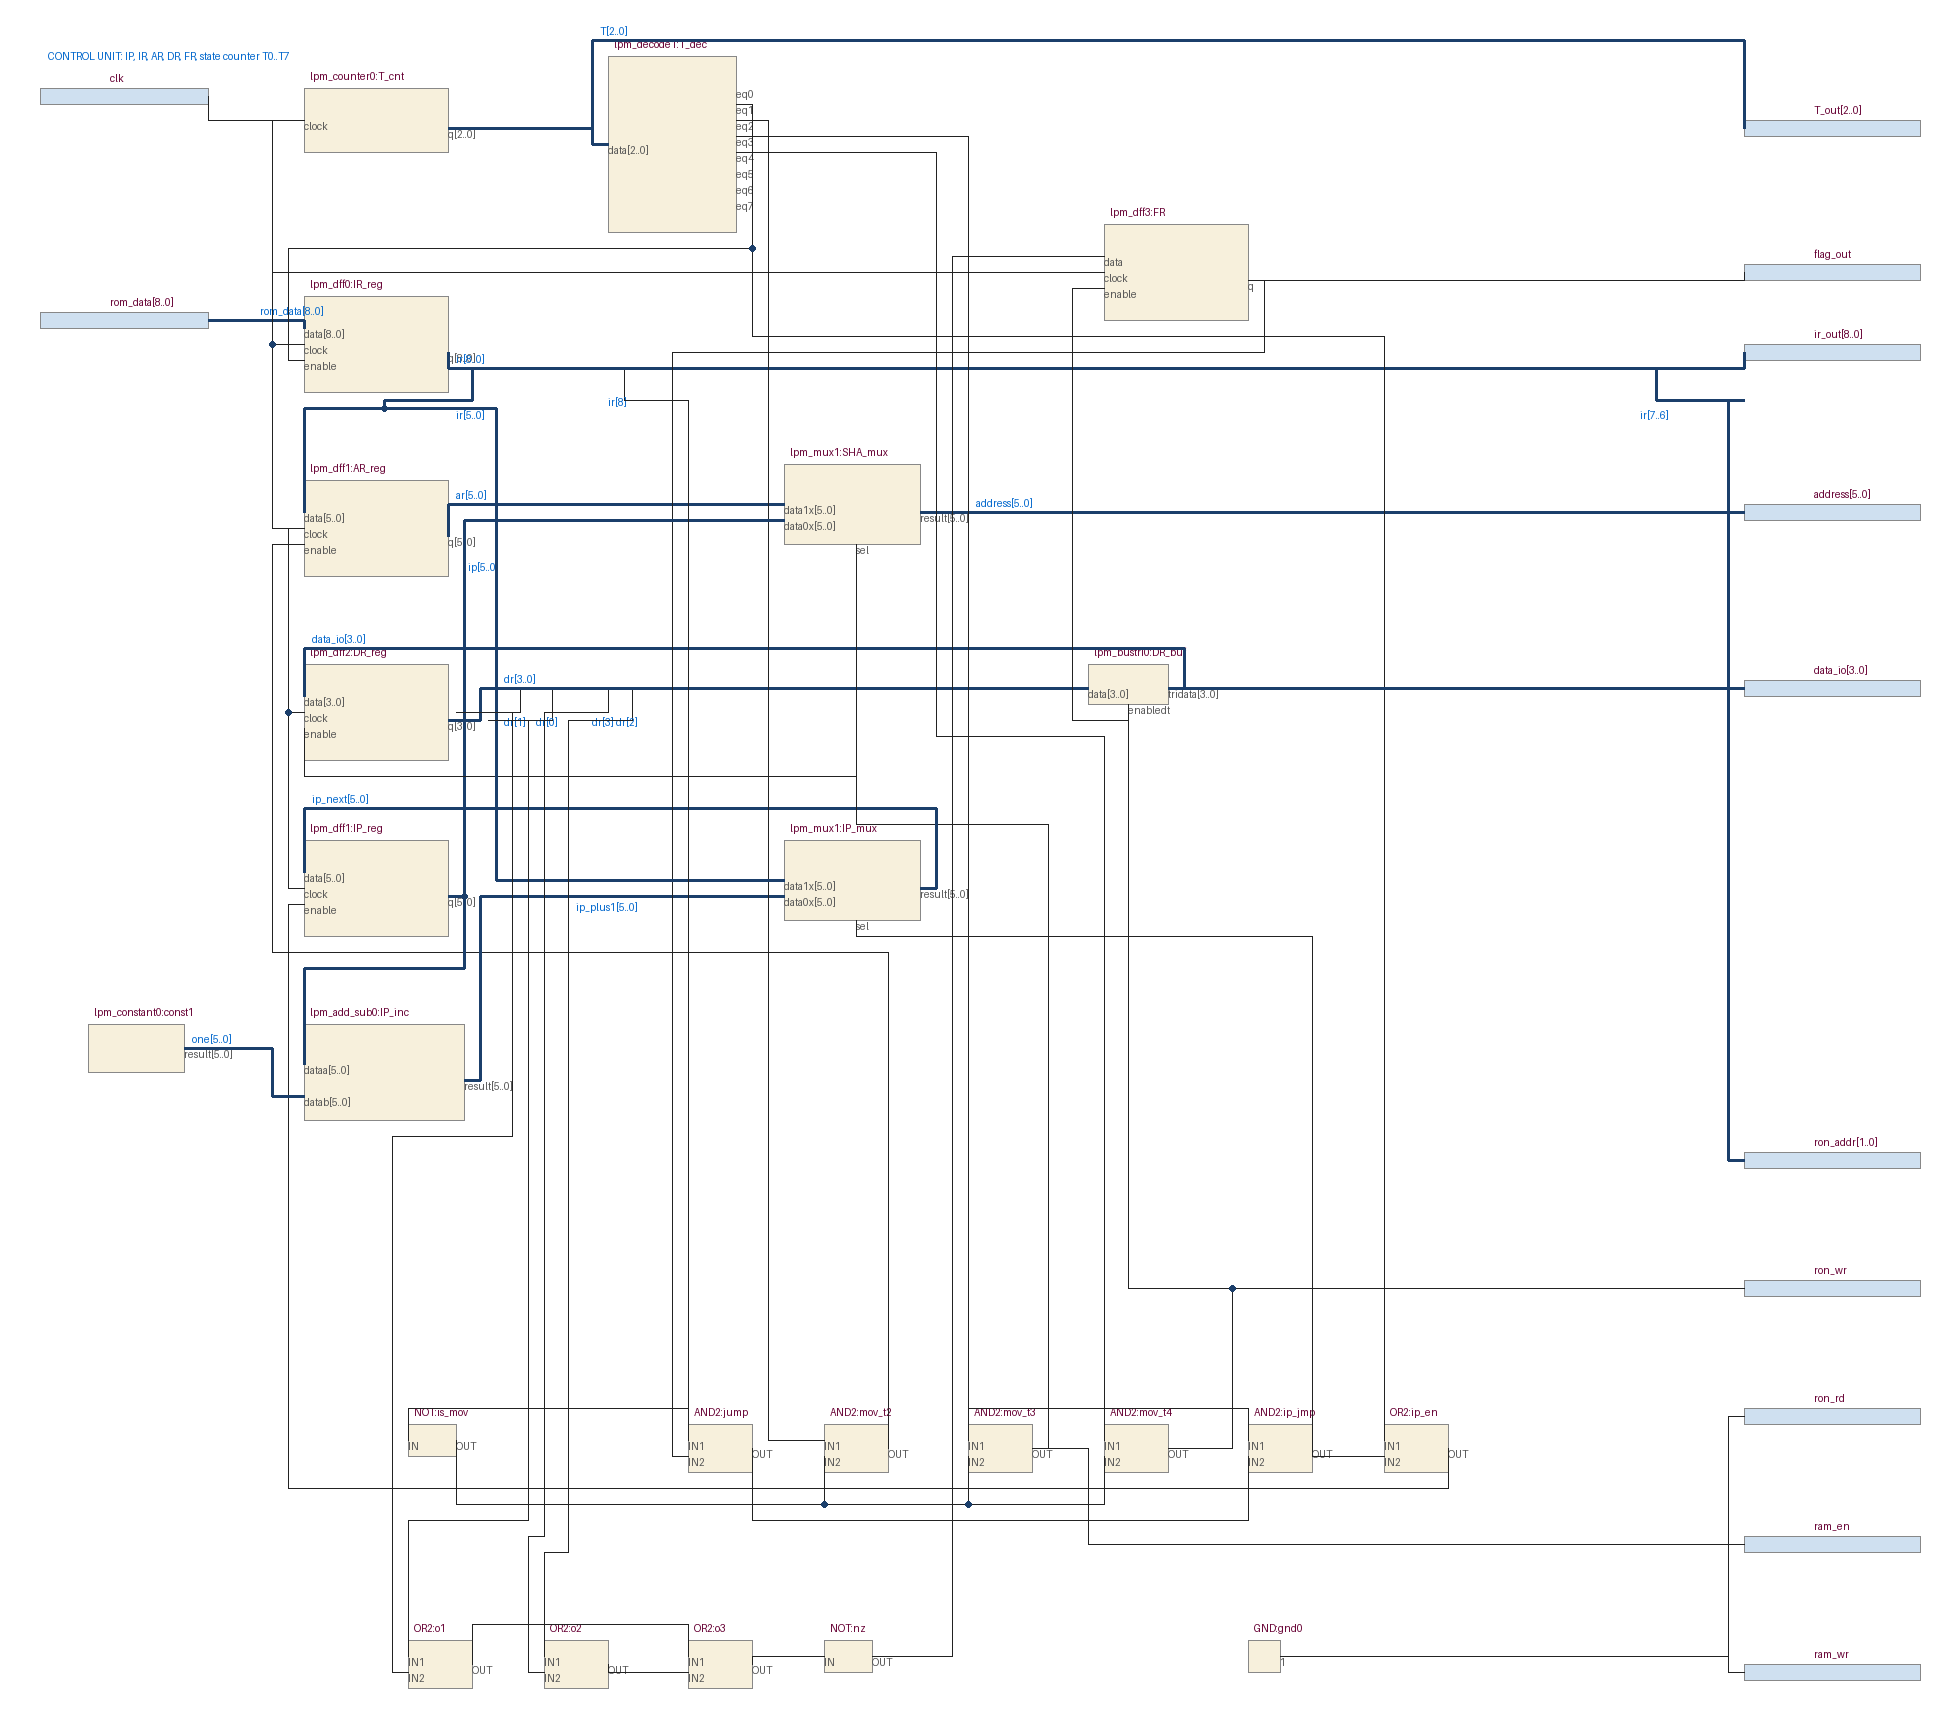
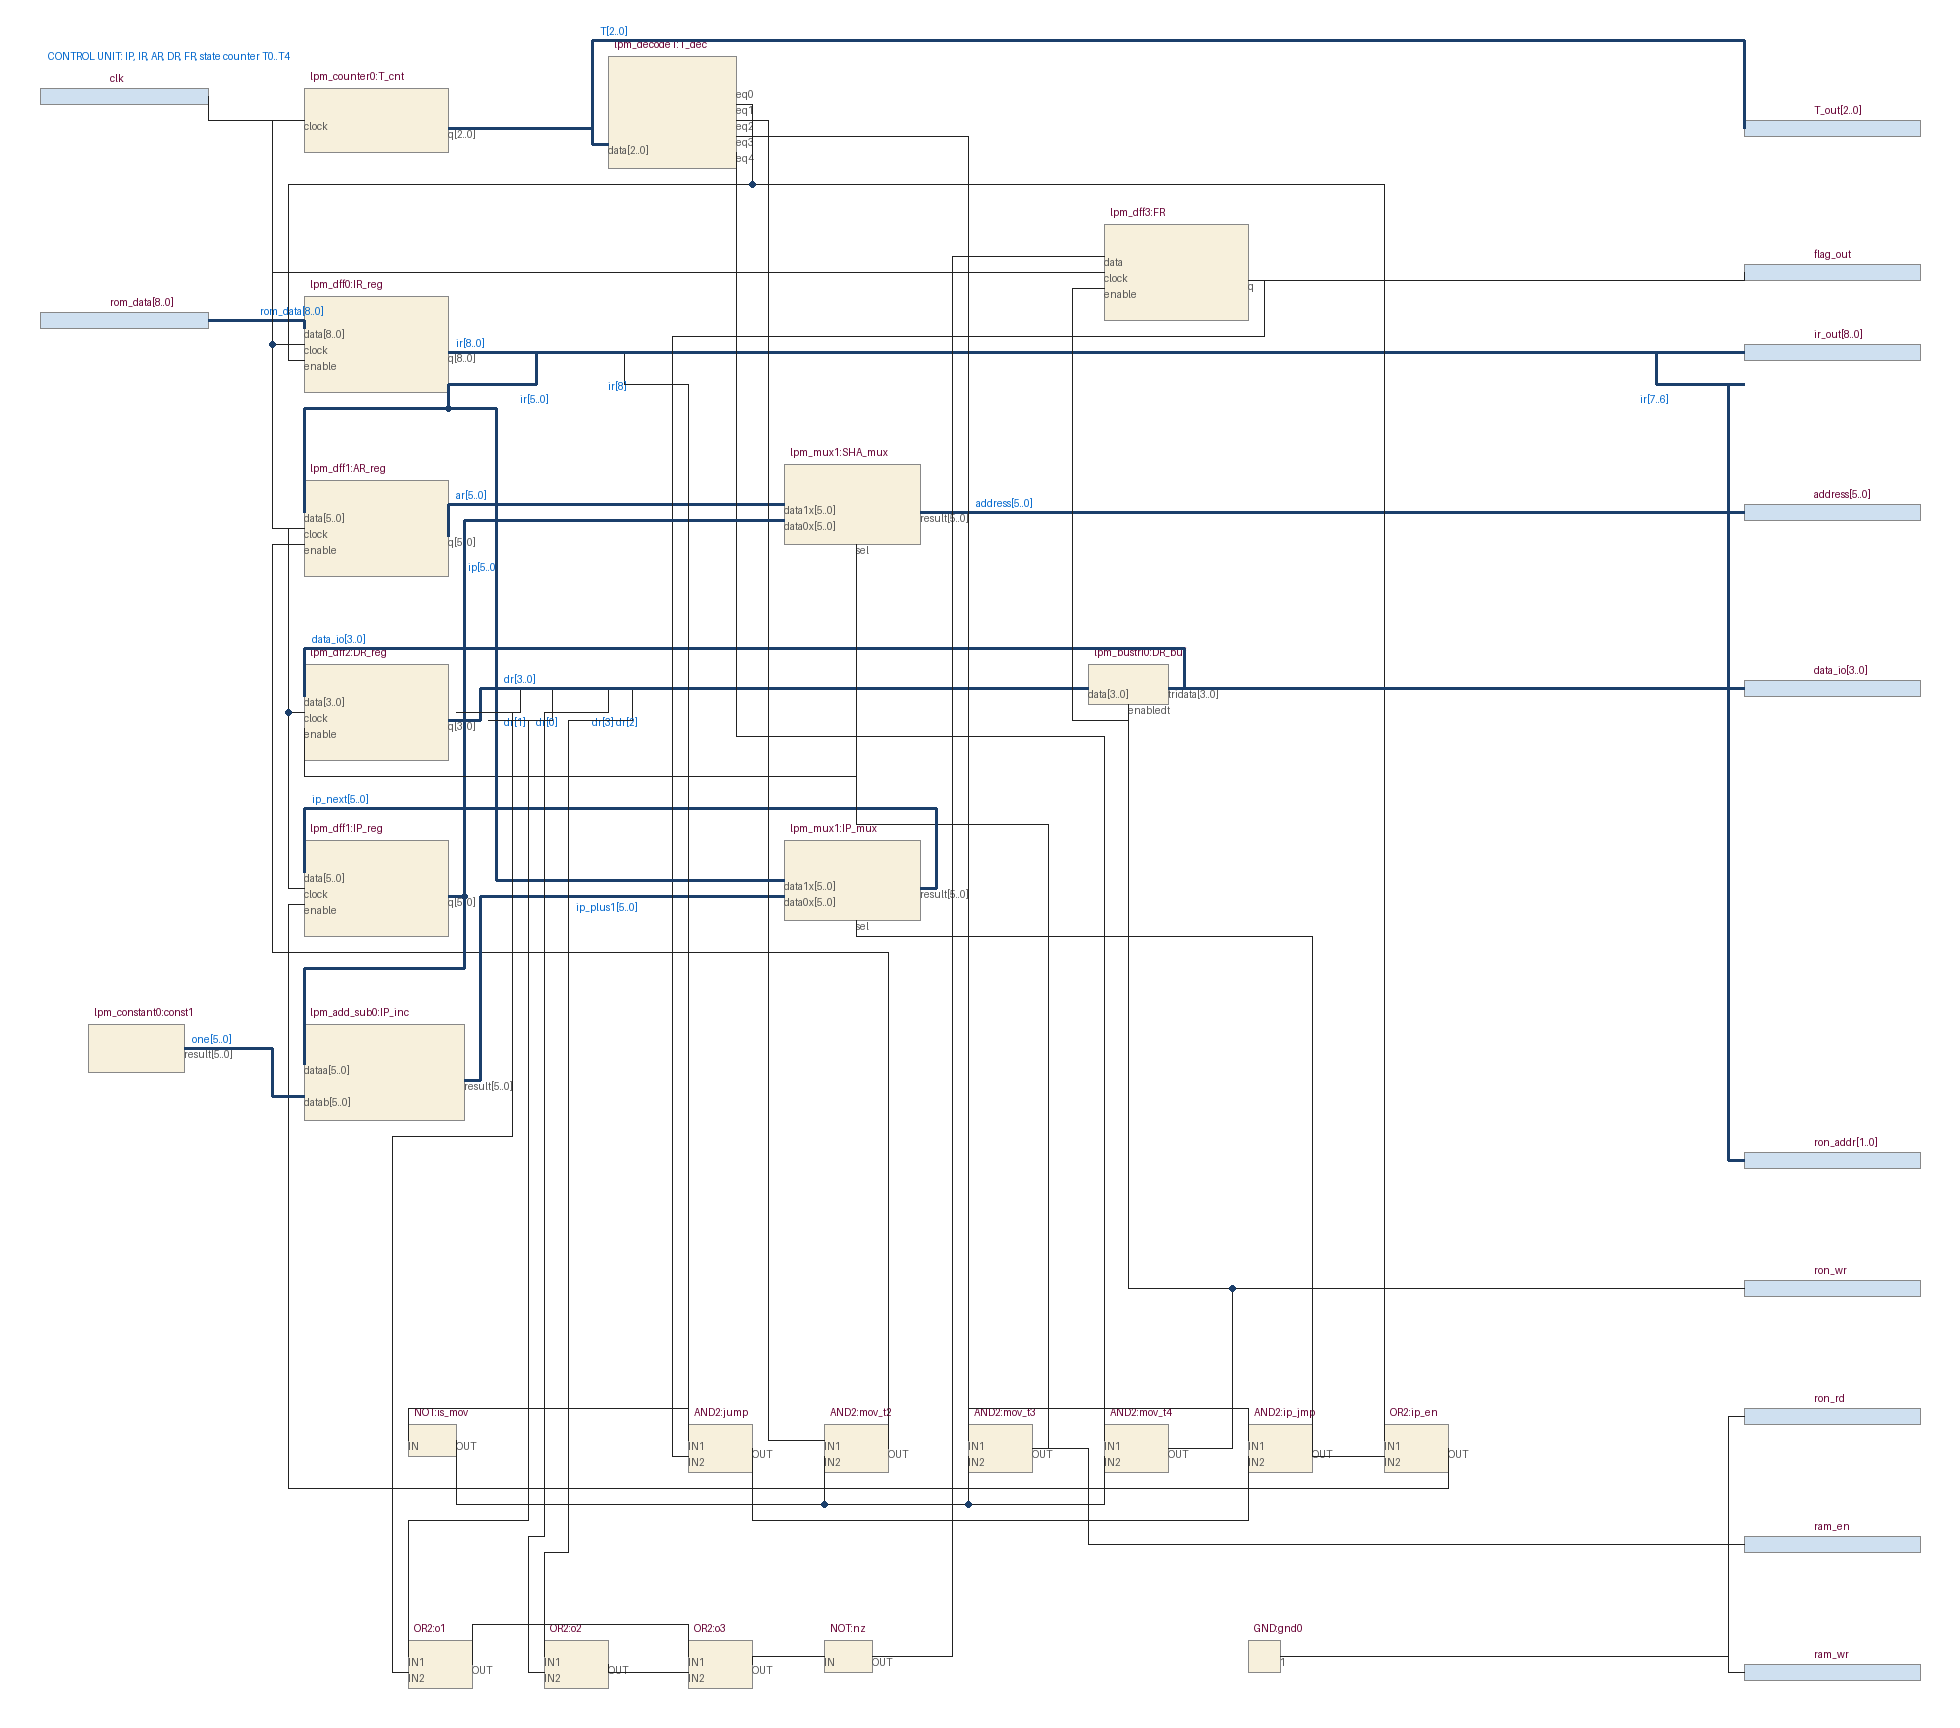
Тактов ровно 5 (T0..T4): счётчик lpm_counter0 по модулю 5, дешифратор lpm_decode1 3->5; обновлены uu.bdf, модель, таблица, vwf, документация

Changed region(s): [[0.2179, 0.1875, 0.8714, 0.25], [0.3112, 0.0938, 0.4046, 0.1562]]

diff --git a/tools/make_timing_table.py b/tools/make_timing_table.py
@@ -3,7 +3,7 @@
 """Рисует таблицу «что происходит по тактам» (по данным модели tools/sim.py).
 
 Блоки:
-  1) MOV M[4], R0  — команда из адреса 00, такты T0…T7;
+  1) MOV M[4], R0  — команда из адреса 00, такты T0…T4;
   2) JZ $3         — адрес 01, Z = 0 (перехода нет);
   3) JZ $0         — адрес 05, Z = 1 (переход есть);
   4) сводка по всему циклу программы.
@@ -33,6 +33,7 @@ GREY = (120, 120, 120)
 ROW_H = 40
 HDR_H = 44
 TITLE_H = 42
+TICKS = 5                      # тактов на команду: T0…T4
 MARGIN = 24
 GAP = 36
 
@@ -78,12 +79,12 @@ def hexb(v, n):
 
 # ------------------------------------------------------------------ данные модели
 def collect():
-    """Прогон модели: 6 команд по 8 тактов = полный цикл программы."""
+    """Прогон модели: 6 команд по 5 тактов = полный цикл программы."""
     cpu = CPU()
-    ticks = [cpu.step() for _ in range(8 * 6)]
+    ticks = [cpu.step() for _ in range(TICKS * 6)]
     cmd = []                    # (адрес команды, слово, такты)
-    for k in range(0, len(ticks), 8):
-        blk = ticks[k:k + 8]
+    for k in range(0, len(ticks), TICKS):
+        blk = ticks[k:k + TICKS]
         # слово команды появляется в IR на такте T2 (защёлкнуто в конце T1)
         word = blk[2]['IR'] if len(blk) > 2 else blk[0]['IR']
         cmd.append((blk[0]['IP'], word, blk))      # адрес команды = IP в такте T0
@@ -113,7 +114,7 @@ def action(cmd_word, t, st):
                 return "Z = 1 → IP ← IR[5..0] = %X (переход)" % adr
             return "Z = 0 → перехода нет, IP остаётся IP+1"
         return "—"
-    return "резерв (автомат досчитывает до T0)"
+    return "—"
 
 
 def rows_for(block):
@@ -132,6 +133,11 @@ def rows_for(block):
     return out
 
 
+def cpu_after(st):
+    """Флаг Z после такта: записывается в конце T4 команды MOV."""
+    return 1 if st['DR'] == 0 else 0
+
+
 def summary(cmd):
     rows = []
     for adr, word, blk in cmd:
@@ -140,7 +146,7 @@ def summary(cmd):
             rows.append(["0x" + hexb(adr, 2), disasm(word),
                          "ША = 0x%02X, ШД = 0x%X" % (blk[3]['sha'], blk[3]['bus']),
                          "R%d ← 0x%X" % ((word >> 6) & 3, blk[4]['bus']),
-                         "Z = %d" % blk[5]['Z']])
+                         "Z = %d" % cpu_after(blk[4])])
         else:
             jump = blk[3]['ctl']['ip_ld_jmp']
             rows.append(["0x" + hexb(adr, 2), disasm(word), "—",
@@ -190,7 +196,7 @@ def main():
                "JZ, непосредственная адресация"
         blocks.append(("Команда 0x%02X — %s (%s)" % (adr, disasm(word), kind),
                        COLS, rows_for(blk)))
-    blocks.append(("Весь цикл программы (6 команд × 8 тактов)", SUMMARY_COLS,
+    blocks.append(("Весь цикл программы (6 команд × 5 тактов)", SUMMARY_COLS,
                    summary(cmd)))
 
     H = MARGIN * 2 + sum(TITLE_H + HDR_H + ROW_H * len(r) + GAP

diff --git a/tools/sim.py b/tools/sim.py
@@ -77,7 +77,7 @@ class CPU:
         if s.T == 4 and s.is_mov():
             s.RON[s.rsel()] = bus & DR_MASK
             s.Z = 1 if s.DR == 0 else 0
-        s.T = (s.T + 1) & 7
+        s.T = (s.T + 1) % 5      # тактов ровно 5: T0…T4
         return st
 
 
@@ -90,15 +90,15 @@ def disasm(w):
 
 if __name__ == '__main__':
     cpu = CPU(); log = []
-    for i in range(8 * 8 * 3):        # три полных обхода программы
+    for i in range(5 * 6 * 3):        # три полных обхода программы
         st = cpu.step()
         c = st['ctl']
         act = [k for k, v in c.items() if v]
         log.append('T%d IP=%02X IR=%03X(%s) AR=%02X DR=%X Z=%d bus=%s SHA=%02X | %s' % (
             st['T'], st['IP'], st['IR'], disasm(st['IR']), st['AR'], st['DR'], st['Z'],
             '-' if st['bus'] is None else '%X' % st['bus'], st['sha'], ','.join(act)))
-        if i % 8 == 7 and i < 8 * 8:
-            print('\n'.join(log[-8:])); print('-' * 100)
+        if i % 5 == 4 and i < 5 * 6:
+            print('\n'.join(log[-5:])); print('-' * 100)
     print('\nИтог: RON =', [format(x, 'X') for x in cpu.RON])
     print('\nТрасса выборки (адреса в порядке выполнения):')
     seen = []

diff --git a/tools/make_schematics.py b/tools/make_schematics.py
@@ -227,7 +227,7 @@ def make_uu():
     # константа 0 для неиспользуемых в данном варианте управляющих сигналов
     s.inst(gnd, 'gnd0', 1400, 1620, {'1': 'gnd_net'})
 
-    s.note('CONTROL UNIT: IP, IR, AR, DR, FR, state counter T0..T7', 200, 20)
+    s.note('CONTROL UNIT: IP, IR, AR, DR, FR, state counter T0..T4', 200, 20)
     s.connect().save('uu.bdf')
 
 

diff --git a/docs/ОТЧЕТ.md b/docs/ОТЧЕТ.md
@@ -135,12 +135,13 @@
 | **AR** | 6 | регистр адреса операнда (равен разрядности ША) |
 | **DR** | 4 | регистр данных (равен разрядности ШД) |
 | **FR** | 1 | регистр флагов: флаг `Z` (результат равен нулю) |
-| **T** | 3 | счётчик тактов автомата: состояния `T0…T7` |
+| **T** | 3 | счётчик тактов автомата: состояния `T0…T4` (счёт по модулю 5) |
 
 ### 4.2 Автомат выполнения команды
 
-Каждая команда выполняется за фиксированные 8 тактов (счётчик `T` свободно
-считает по синхросигналу; реально используются `T0…T4`, такты `T5…T7` — резерв).
+Каждая команда выполняется за фиксированные **5 тактов** — `T0…T4`
+(счётчик `T` считает по модулю 5, дешифратор `T_dec` имеет ровно пять выходов,
+неиспользуемых состояний в схеме нет).
 
 **Выборка команды (общая для всех команд):**
 
@@ -292,7 +293,7 @@ END;
 Та же раскладка картинкой для отчёта: `docs/img/timing_table.png`
 (генерируется `python3 tools/make_timing_table.py` из модели `tools/sim.py`).
 
-Первые две команды и переход по `JZ` (полная трасса — 8 тактов на команду;
+Первые две команды и переход по `JZ` (полная трасса — 5 тактов на команду;
 `ША` — адрес на шине адреса, `ROM` — слово, выдаваемое ROM по этому адресу):
 
 | T | ША | ROM | IR | Команда в IR | Управляющие сигналы |
@@ -302,7 +303,6 @@ END;
 | 2 | `01` | `103` | `004` | `MOV M[4], R0` | `AR←4` |
 | 3 | `04` | `045` | `004` | `MOV M[4], R0` | `ША←AR`, `RAM→ШД = 9`, `DR←ШД` |
 | 4 | `01` | `103` | `004` | `MOV M[4], R0` | `DR→ШД`, `РОН[R0]←9`, `FR←Z=0` |
-| 5…7 | `01` | `103` | `004` | `MOV M[4], R0` | — |
 | 0 | `01` | `103` | `004` | `MOV M[4], R0` | — |
 | 1 | `01` | `103` | `004` | `MOV M[4], R0` | `IR←ROM`, `IP+1 = 2` |
 | 2 | `02` | `045` | `103` | `JZ $3` | — |
@@ -347,8 +347,8 @@ END;
 | `lpm_mux1` | мультиплексоры ША и входа IP | 2:1, 6 бит |
 | `lpm_add_sub0` + `lpm_constant0` | сумматор `IP + 1` | 6 бит, константа 1 |
 | `lpm_decode0` | дешифратор адреса РОН | 2 → 4, со входом `enable` |
-| `lpm_decode1` | дешифратор тактов | 3 → 8 (`T0…T7`) |
-| `lpm_counter0` | счётчик тактов | 3 бита |
+| `lpm_decode1` | дешифратор тактов | 3 → 5 (`T0…T4`) |
+| `lpm_counter0` | счётчик тактов | 3 бита, модуль 5 (`T0…T4`) |
 | `lpm_bustri0` | формирователи ШД | 4 бита (3 экземпляра) |
 
 ### 7.3 Порядок сборки и моделирования
@@ -435,7 +435,7 @@ END;
 | Схема | Выводов | Проводников | Цепей | Замечания |
 |---|---|---|---|---|
 | `laba4.bdf` | 39 | 78 | 12 | нет |
-| `uu.bdf` | 90 | 168 | 36 | `T_dec.eq0`, `eq5…eq7` не задействованы (такты `T5…T7` и `T0` не нужны) |
+| `uu.bdf` | 87 | 167 | 36 | `T_dec.eq0` не задействован (`T0` — общий такт выборки) |
 | `ron.bdf` | 37 | 53 | 15 | нет |
 | `ram.bdf` | 14 | 15 | 7 | нет |
 | `rom.bdf` | 6 | 4 | 3 | нет |
@@ -473,7 +473,7 @@ END;
 2. **Код программы в символьном и числовом виде** — п. 5.1 и 5.2
    (удобная картинка — `docs/img/code_table.png`).
 3. **Структурная схема** — `docs/scheme.svg` и `laba4.bdf`.
-4. **УУ**: автомат `T0…T7`, таблица управляющих сигналов, спецрегистры.
+4. **УУ**: автомат `T0…T4`, таблица управляющих сигналов, спецрегистры.
 5. **Содержимое памяти** — `rom.mif`, `ram.mif`.
 6. **Временные диаграммы** — `lab4.vwf` (видно выборку команды, чтение RAM,
    запись РОН, изменение флага Z и переходы `JZ`).
